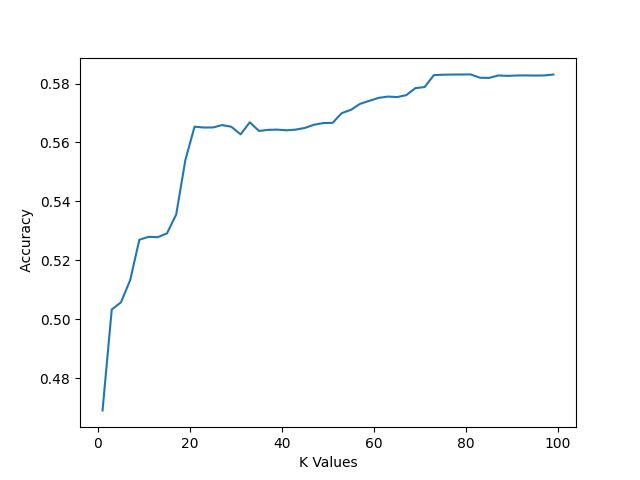
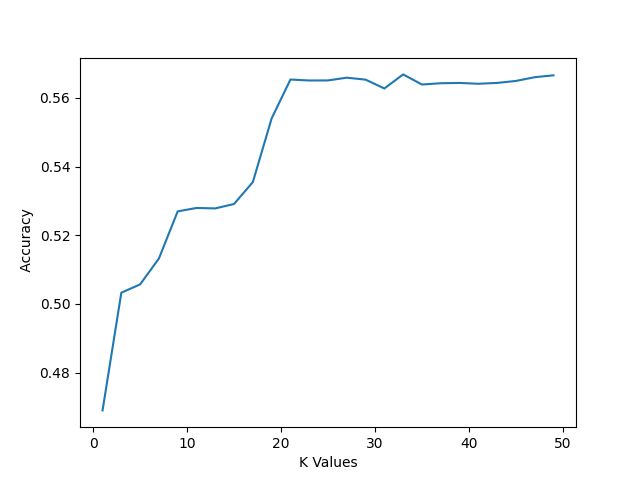
Updates eveything

diff --git a/k-nearestneighbor.py b/k-nearestneighbor.py
@@ -57,7 +57,9 @@ def Evaluation():
     print("The Confusion Matrix for the prediction is")
     print(matrix)
     fig = sns.heatmap(matrix, annot=labels, fmt='', cmap='Blues', cbar=False)
-    fig.figure.savefig("output.png")
+    plt.xlabel("True classes")
+    plt.ylabel("Predicted Classes")
+    fig.figure.savefig("kNNConfusionMatrix.png")
 
     # Metric 3: Classification Report
     report = classification_report(y_test, predicted)
@@ -65,7 +67,7 @@ def Evaluation():
 
 
 def Overfitting():
-    kValues = [i for i in range(1, 100, 2)]
+    kValues = [i for i in range(1, 50, 2)]
 
     print(kValues)
     Accuracy = []
@@ -81,6 +83,7 @@ def Overfitting():
     kOptimal = kValues[Accuracy.index(max(Accuracy))]
     print(Accuracy)
     print("Optimal k", kOptimal)
+    plt.clf()
     plt.plot(kValues, Accuracy)
     plt.xlabel("K Values")
     plt.ylabel(" Accuracy")
@@ -130,10 +133,10 @@ def LearningCurve():
 
 
 def main():
-    # BuildingkNNModel()
+    BuildingkNNModel()
     Evaluation()
-    # Overfitting()
-    # LearningCurve()
+    Overfitting()
+    LearningCurve()
 
 
 if __name__ == "__main__":
